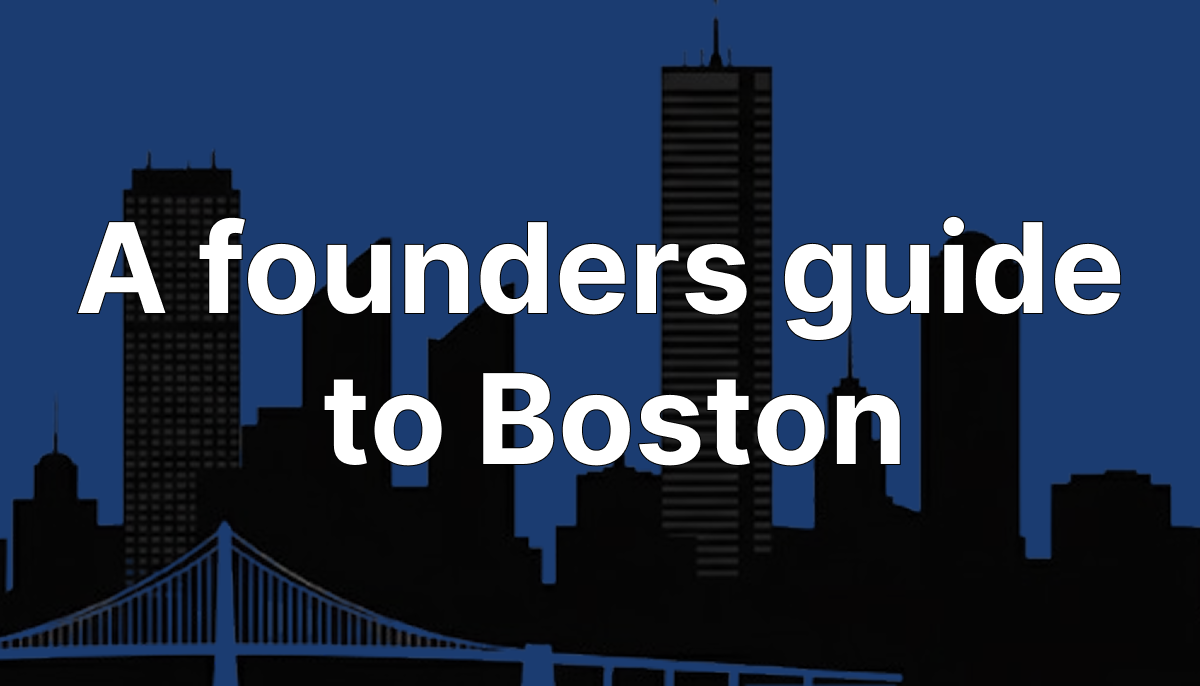
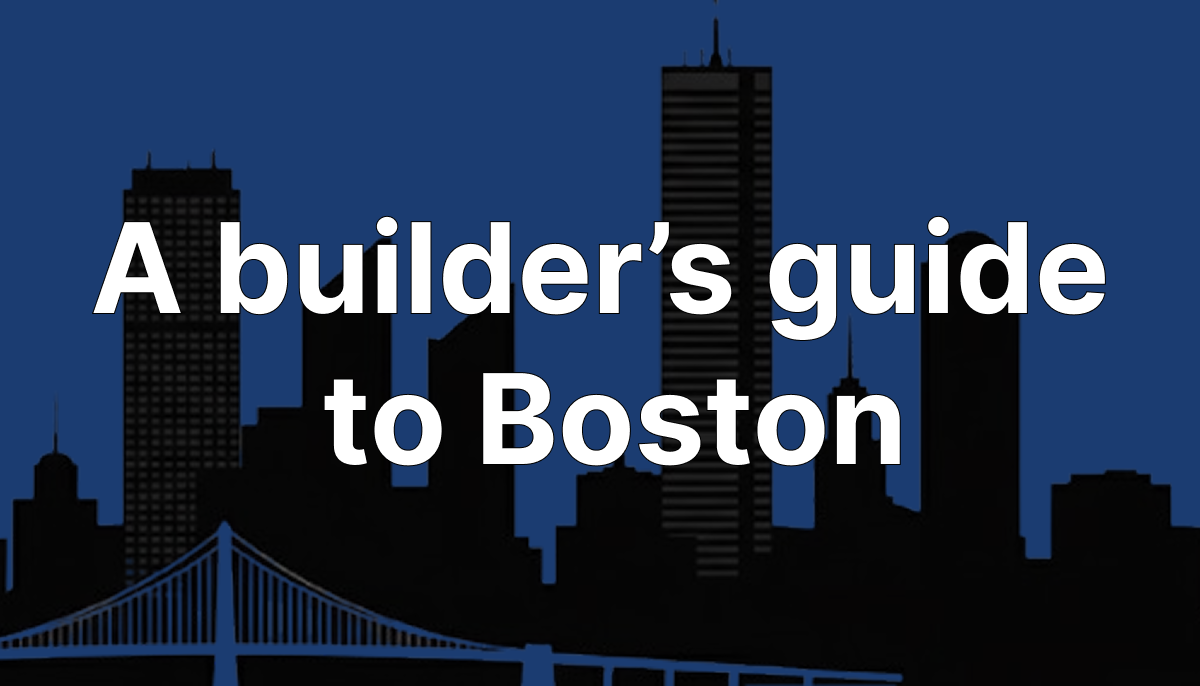
updating the preview stuff

Changed region(s): [[0.0617, 0.3061, 0.9558, 0.5204]]

diff --git a/app/layout.tsx b/app/layout.tsx
@@ -25,12 +25,10 @@ export const metadata: Metadata = {
     default: "Boston Tech Scene: The Founder's Guide",
     template: "%s | Boston Tech Scene",
   },
-  description:
-    "The curated guide to Boston's startup ecosystem: communities, events, accelerators, VCs, and workspaces for founders.",
+  description: "A builder's guide to Boston",
   openGraph: {
     title: "Boston Tech Scene: The Founder's Guide",
-    description:
-      "The curated guide to Boston's startup ecosystem: communities, events, accelerators, VCs, and workspaces for founders.",
+    description: "A builder's guide to Boston",
     url: "https://bostontechscene.com",
     siteName: "Boston Tech Scene",
     locale: "en_US",
@@ -47,8 +45,7 @@ export const metadata: Metadata = {
   twitter: {
     card: "summary_large_image",
     title: "Boston Tech Scene: The Founder's Guide",
-    description:
-      "The curated guide to Boston's startup ecosystem: communities, events, accelerators, VCs, and workspaces for founders.",
+    description: "A builder's guide to Boston",
     images: ["https://bostontechscene.com/og-image.png"],
   },
 };
